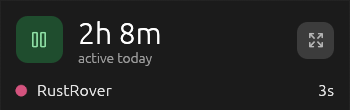
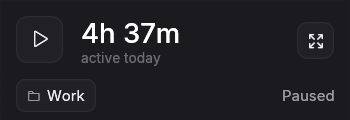
chore(release): docs, screenshots, and version 0.2.0
Refresh the README (sessions feature, sidebar-based usage, full config table, paused-on-launch install note) and the dashboard/calendar/mini-HUD/sessions screenshots for the new UI. Bump the version to 0.2.0 and gitignore the local ARCHITECTURE.md / CLAUDE.md context docs.

diff --git a/README.md b/README.md
@@ -11,16 +11,19 @@ it into a clear picture of your day — without sending a single byte off your m
 [![Platform](https://img.shields.io/badge/Platform-Windows-0078D6?logo=windows&logoColor=white)](#installation)
 [![UI](https://img.shields.io/badge/UI-egui%2Feframe-blue)](https://github.com/emilk/egui)
 [![License](https://img.shields.io/badge/License-MIT-green.svg)](#license)
-![Version](https://img.shields.io/badge/version-0.1.0-lightgrey)
+![Version](https://img.shields.io/badge/version-0.2.0-lightgrey)
 
 </div>
 
 ## Overview
 
 Suntrack is an **automatic** time tracker — you never have to start a stopwatch or label
-what you're working on. Once it's running, a background thread samples your active window
+what you're working on. Once tracking is on, a background thread samples your active window
 every second, attributes the time to the app (and the specific window title) you're in,
 and detects when you've stepped away so idle minutes don't get counted as work.
+
+Time is filed under a **session** — a named context such as *Work* or *Learning* — so you
+can keep separate pursuits apart and view them individually or combined.
 
 Everything lives in a single local SQLite database. There is no account, no cloud, and no
 telemetry: your activity history never leaves your computer.
@@ -29,20 +32,23 @@ telemetry: your activity history never leaves your computer.
 
 - **Automatic activity tracking** — records the active application and window title each
   second; no manual timers.
+- **Sessions** — file your time under named contexts like *Work* or *Learning*. Switch the
+  active session from the dashboard or mini-HUD, view one session at a time or all combined,
+  and create, rename, or archive sessions from the Sessions page.
 - **Idle detection** — time away from the keyboard past a configurable threshold is logged
   separately as *Idle* and kept out of your active totals.
 - **App breakdown with drill-down** — a ranked dashboard of how long you spent in each app,
   expandable to the individual window titles within it.
 - **Calendar heatmap** — a GitHub-style month view that shades each day by how much you
-  tracked; click any day to revisit its full breakdown.
+  tracked; click any day to revisit its full breakdown. Scope it to one session or all.
 - **Always-on-top mini-HUD** — minimize the window and Suntrack collapses into a compact,
-  draggable widget that snaps to the screen edge and shows your current app and running
-  total at a glance.
+  draggable widget that snaps to the screen edge and shows your current app, running total,
+  and active session at a glance.
 - **Pause when you want** — one click stops tracking; the timeline stays accurate across
   pauses, system sleep, and midnight rollovers.
 - **Local-first & private** — all data is stored in a local SQLite file. Nothing is uploaded.
-- **Configurable** — sampling rate, idle threshold, and save interval are all set in a
-  simple TOML file.
+- **Configurable** — sampling rate, idle threshold, save interval, launch behavior, and the
+  default session are all set in a simple TOML file.
 
 ## Screenshots
 
@@ -62,6 +68,12 @@ telemetry: your activity history never leaves your computer.
 
 <br><br>
 
+<img src="docs/sessions.png" alt="Sessions manager" width="720">
+
+<sub>**Sessions** — create, rename, archive, and restore the named contexts your time is filed under.</sub>
+
+<br><br>
+
 <img src="docs/mini-hud.png" alt="Mini-HUD" width="300">
 
 <sub>**Mini-HUD** — the always-on-top widget that stays out of the way while you work.</sub>
@@ -77,7 +89,8 @@ installer to run.
 2. Move it to a permanent location — for example, a `Suntrack` folder within your user
    directory — and run it. Optionally, pin it to the taskbar for quick access.
 3. On first launch, Suntrack creates its data directory at `%LOCALAPPDATA%\suntrack` and
-   begins tracking immediately.
+   opens paused. Click **Start tracking** to begin (or set `start_tracking_on_launch = true`
+   in the config to track automatically on every launch).
 
 > **Note:** because the binary isn't code-signed, Windows SmartScreen may show a warning the
 > first time you run it. Click **More info → Run anyway** to continue.
@@ -100,14 +113,21 @@ The optimized binary is produced at `target\release\suntrack.exe`.
 
 ## Usage
 
-- **Dashboard** — opens on the current day. The big number is your total active time; the
-  list below ranks your apps. Click any row to expand its per-window-title breakdown.
-- **Pause / resume** — the toggle in the top-left stops and starts tracking.
+- **Navigation** — the left sidebar switches between **Today**, **Calendar**, and
+  **Sessions**, and its footer shows whether you're recording and into which session.
+- **Dashboard (Today)** — the big number is your total active time; the list below ranks
+  your apps. Click any row to expand its per-window-title breakdown.
+- **Pause / resume** — the toggle on the dashboard hero stops and starts tracking.
+- **Sessions** — use the session picker at the top of the dashboard to switch the active
+  session or create a new one, and the **This session / All** toggle to view one session or
+  every session combined. The **Sessions** page lets you create, rename, archive, and
+  restore sessions.
 - **Browse history** — use the day arrows, or click the date to open the **calendar** and
   jump to any past day.
-- **Mini-HUD** — minimize the window to collapse Suntrack into the always-on-top HUD. Drag
-  it anywhere (it snaps to the nearest edge), or right-click it to reopen the full window or
-  quit. Click the expand icon to restore the dashboard.
+- **Mini-HUD** — minimize the window to collapse Suntrack into the always-on-top HUD. It
+  shows the active session as a pill — click it to cycle sessions. Drag the HUD anywhere (it
+  snaps to the nearest edge), or right-click it to reopen the full window or quit. Click the
+  expand icon to restore the dashboard.
 
 ## Configuration
 
@@ -124,6 +144,8 @@ apply. Both the database and config live in your per-user data directory:
 | `idle_timeout_secs` | `60` | Seconds of inactivity before time is logged as *Idle*. |
 | `save_interval_secs` | `15` | How often accumulated time is written to the database. |
 | `refresh_rate_secs` | `1` | Tracker sampling interval. Lower is more responsive, slightly more CPU. |
+| `start_tracking_on_launch` | `false` | Begin tracking the moment the app opens; `false` starts paused. |
+| `default_session` | `""` | Session to record into on launch. Empty continues the last session used; a name (e.g. `"Work"`) always starts there, creating it if needed. |
 
 Missing fields fall back to their defaults, and a malformed file is ignored with a warning
 rather than stopping the app.